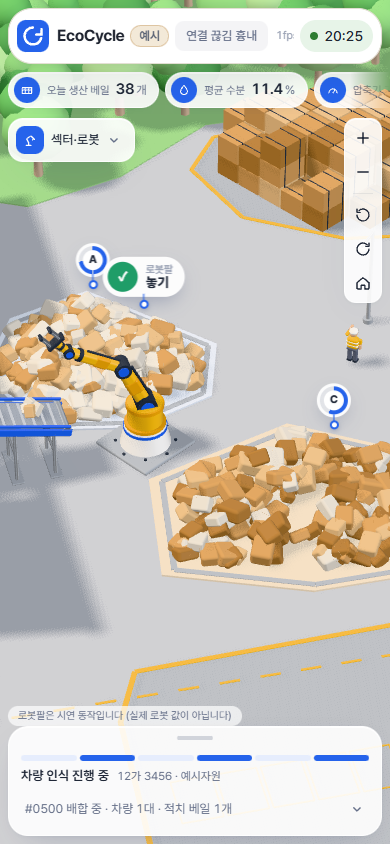
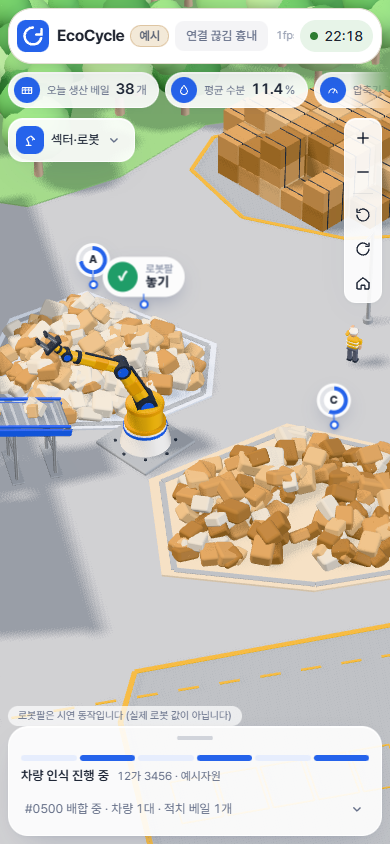
chore(studio): 모델 목록 주석 바로잡고, 주차 차량 없는 장면으로 부지 스크린샷 모두 다시 찍음

diff --git a/app/src/studio/modelList.ts b/app/src/studio/modelList.ts
@@ -1,5 +1,6 @@
 // 스튜디오가 쓰는 모델 파일 목록 (파일·배율·회전·원점·라이선스·출처·삼각형 수). three를 쓰지 않는다:
-// 로그인 화면에서 미리 받을 파일을 고를 때(preload.ts)도 이 목록을 읽는다. 불러오기는 models.ts.
+// 로그인 화면에서 미리 받을 파일을 고를 때(preload.ts)가 이 목록을 읽는다. 지금은 비어 있고(장면은 코드 모형만 쓴다)
+// 불러오기 코드도 없다. 모델을 다시 쓰게 되면 여기에 적고 불러오기를 새로 붙인다(studio/CLAUDE.md "모델").
 
 /** 모델 파일이 놓인 곳 (app/public/models) */
 export const MODEL_BASE = '/models/';

diff --git a/docs/screenshots/studio/site-layout/README.md b/docs/screenshots/studio/site-layout/README.md
@@ -1,7 +1,7 @@
 # 3D 홈: 실제 부지 배치 (S2d, 2026-11-24)
 
 위성사진(위가 북쪽)을 `app/src/studio/world/layout.ts`의 `sitePx` 하나로 옮긴 3D 홈. 사진 파일 자체는 저장소에 넣지 않는다.
-찍은 방법: Chromium(SwiftShader), 배율 1. 시연 화면은 `/scene-demo?tier=standard`(예시 데이터), 실제 홈은 모의 서버 + `admin` 로그인 + 3D 홈(화질은 접속 측정값).
+모든 그림은 주차 차량을 없앤 뒤(주변은 숲·도로·사무실 곁 트레일러 하나) 다시 찍었다. 찍은 방법: Chromium(SwiftShader), 배율 1. 시연 화면은 `/scene-demo?tier=standard`(예시 데이터), 실제 홈은 모의 서버 + `admin` 로그인 + 3D 홈(화질은 접속 측정값).
 
 | 파일 | 화면 | 크기 | 보는 곳 |
 | --- | --- | --- | --- |
@@ -19,3 +19,5 @@
 사진과 맞춘 배치: 북서 숲, 북서 베일 구역(ㄱ자, 고정 재고 "예시"), 사무실("태화리싸이클링" 자리)과 그 서쪽 트레일러, 사무실 바로 아래 계근대(가로로 긺),
 계근대와 남동 베일 구역 사이의 입구, 동쪽 도로(북 → 남서), 가운데 빈 마당, 로봇(지금 포크레인 자리)과 그 양쪽 더미(레일을 볼 때 오른쪽 A = 북서 갈색, 왼쪽 C = 남동 흰 더미),
 로봇에서 남서쪽 파란 지붕 압축기 건물로 오르는 경사 레일, 건물 남동 모서리의 배출구, 남동 베일 구역(ㄴ자, 서버 베일 적치).
+
+`docs/screenshots/studio/yard/`(이 폴더 밖)는 S2d 이전의 옛 배치(본관·출하 마당)를 찍은 것이다. 새 배치의 장시간 점검 그림은 이 폴더의 `yard/`다.
